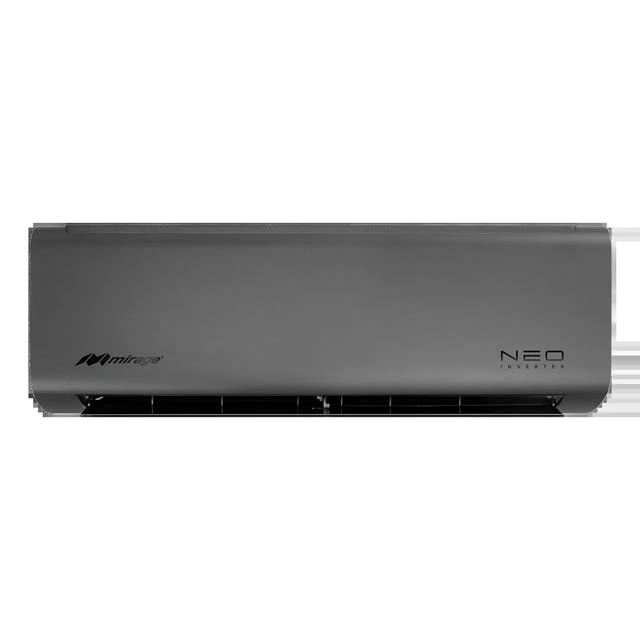
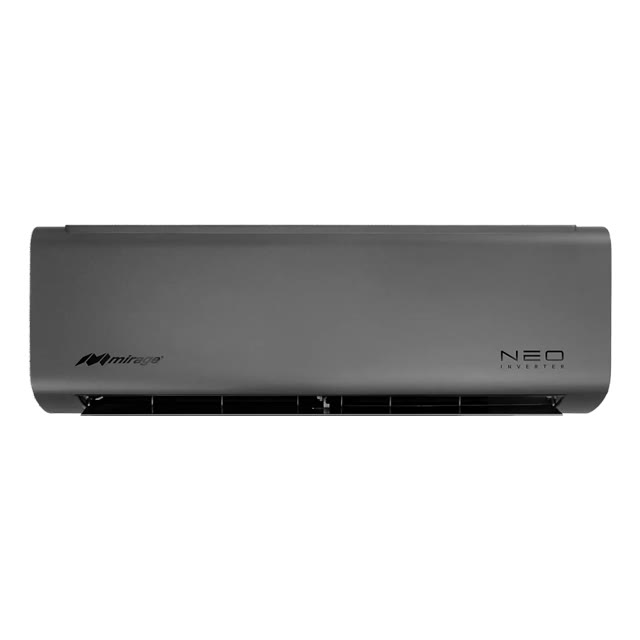
Corregir las fotos del catalogo y la linea de especificaciones
Las fotos traian manchas negras: el webp de origen tiene canal alfa y al pasar
a JPEG el transparente se volvia negro. Ahora se componen sobre blanco antes
de convertir. La ficha de cada modelo se acorta a SEER hasta X para que no
quede una cifra huerfana en la segunda linea.

Changed region(s): [[0.0312, 0.3438, 1.0, 0.6562]]

diff --git a/index.html b/index.html
@@ -422,7 +422,7 @@ h3{font-size:clamp(1.15rem,1.7vw,1.45rem);font-weight:600}
 .modelo .foto img{width:100%;height:auto;display:block}
 .modelo .datos{padding:20px 22px 26px;flex:1;display:flex;flex-direction:column}
 .modelo h3{color:#0B141F;font-size:1.14rem;margin-bottom:7px;letter-spacing:-.01em}
-.modelo .cap{font-family:var(--mono);font-size:.68rem;letter-spacing:.1em;text-transform:uppercase;color:#46596B}
+.modelo .cap{font-family:var(--mono);font-size:.68rem;letter-spacing:.1em;text-transform:uppercase;color:#46596B;text-wrap:balance;display:block;line-height:1.5}
 .modelo p{margin-top:13px;font-size:.92rem;color:#3A4E5E;line-height:1.55;flex:1}
 .modelo .chips{display:flex;flex-wrap:wrap;gap:6px;margin-top:18px}
 .modelo .chip2{font-family:var(--mono);font-size:.6rem;letter-spacing:.08em;text-transform:uppercase;
@@ -757,7 +757,7 @@ body.paused *,body.paused *::before,body.paused *::after{animation-play-state:pa
         <div class="foto"><img src="assets/modelos/x5.jpg" alt="Minisplit Mirage X5 Inverter" width="640" height="640" loading="lazy"></div>
         <div class="datos">
           <h3>X5 Inverter</h3>
-          <span class="cap">1, 1.5 y 2 toneladas · R32 · SEER 17.4 a 17.7</span>
+          <span class="cap">1, 1.5 y 2 toneladas · R32 · SEER hasta 17.7</span>
           <p>Trae wifi de fábrica, así que lo prendes desde el teléfono antes de llegar a la casa. Dos modos ECO que limitan el consumo al 75 o al 50 por ciento, y limpieza antihongos y bacterias.</p>
           <div class="chips"><span class="chip2">Frío y calor</span><span class="chip2 acc">Wifi de fábrica</span><span class="chip2">Modo ECO</span></div>
         </div>
@@ -775,7 +775,7 @@ body.paused *,body.paused *::before,body.paused *::after{animation-play-state:pa
         <div class="foto"><img src="assets/modelos/flex.jpg" alt="Minisplit Mirage FLEX Inverter" width="640" height="640" loading="lazy"></div>
         <div class="datos">
           <h3>FLEX Inverter</h3>
-          <span class="cap">1, 1.5 y 2 toneladas · R32 · SEER 16.1 a 17.7</span>
+          <span class="cap">1, 1.5 y 2 toneladas · R32 · SEER hasta 17.7</span>
           <p>La entrada al inverter sin bajarle a lo importante. Autolimpieza, protección contra sobrecarga de corriente, anticongelamiento y modo turbo para bajar la temperatura rápido.</p>
           <div class="chips"><span class="chip2">Frío y calor</span><span class="chip2">Modo turbo</span><span class="chip2 acc">Entrada a inverter</span></div>
         </div>
@@ -784,7 +784,7 @@ body.paused *,body.paused *::before,body.paused *::after{animation-play-state:pa
         <div class="foto"><img src="assets/modelos/v32.jpg" alt="Minisplit Mirage V32 Inverter" width="640" height="640" loading="lazy"></div>
         <div class="datos">
           <h3>V32 Inverter</h3>
-          <span class="cap">1, 1.5 y 2 toneladas · R32 · SEER 17.4 a 17.7</span>
+          <span class="cap">1, 1.5 y 2 toneladas · R32 · SEER hasta 17.7</span>
           <p>Diseño X-COOL y compresor SVS. Trae diagnóstico asistido desde el celular: si marca un código, la aplicación te dice qué significa antes de que llames a nadie.</p>
           <div class="chips"><span class="chip2">Solo frío</span><span class="chip2 acc">Diagnóstico en el celular</span><span class="chip2">X-COOL</span></div>
         </div>
@@ -793,7 +793,7 @@ body.paused *,body.paused *::before,body.paused *::after{animation-play-state:pa
         <div class="foto"><img src="assets/modelos/inverterx.jpg" alt="Minisplit Mirage Inverter X" width="640" height="640" loading="lazy"></div>
         <div class="datos">
           <h3>Inverter X</h3>
-          <span class="cap">1, 1.5 y 2 toneladas · R32 · SEER 16.8 a 18.6</span>
+          <span class="cap">1, 1.5 y 2 toneladas · R32 · SEER hasta 18.6</span>
           <p>Va en su tercera generación, y eso se nota en que casi no da problemas. Tecnología por inteligencia artificial, detector de fuga y asistente de diagnóstico. En 1.5 y 2 toneladas hay versión de frío y calor.</p>
           <div class="chips"><span class="chip2">Frío y calor</span><span class="chip2 acc">Tercera generación</span><span class="chip2">Detector de fuga</span></div>
         </div>
